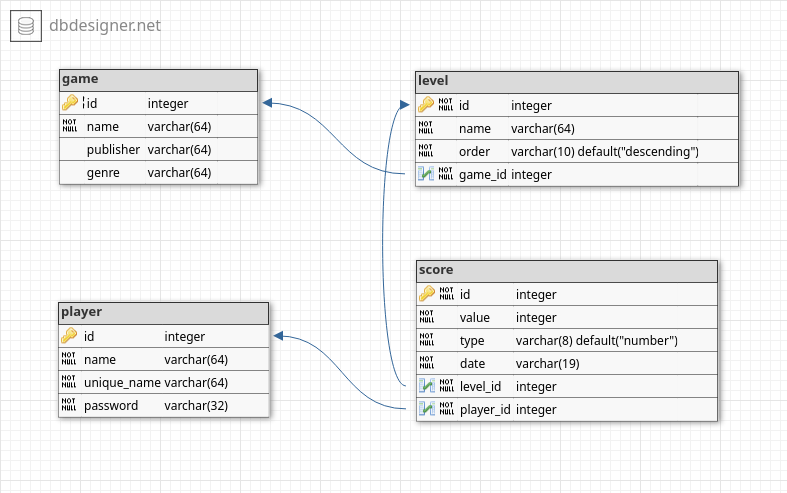
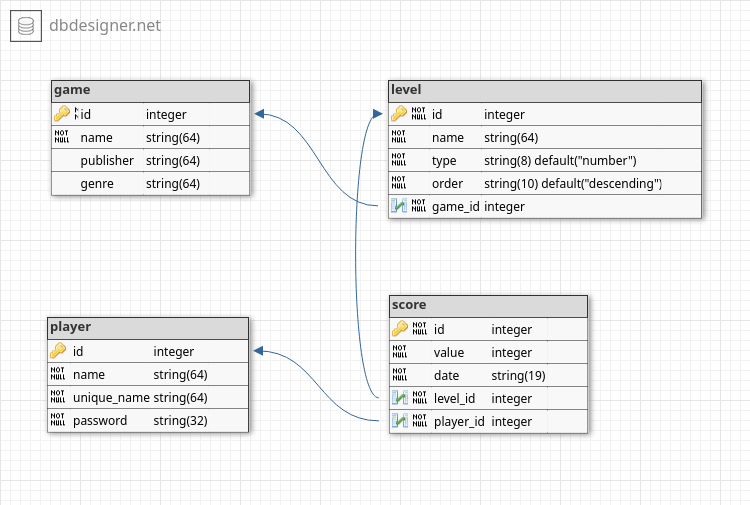
Small change in models

diff --git a/tests/db_test.py b/tests/db_test.py
@@ -1,5 +1,5 @@
 """
-Test structure based on an example and instructions in the Programmable Web Project course.
+Test structure is based on an example and instructions from the Programmable Web Project course.
 """
 
 import os
@@ -14,11 +14,13 @@ from sqlalchemy.exc import IntegrityError, StatementError
 from gamescoreservice import create_app, db
 from gamescoreservice.models import Game, Level, Score, Player
 
+
 @event.listens_for(Engine, "connect")
 def set_sqlite_pragma(dbapi_connection, connection_record):
     cursor = dbapi_connection.cursor()
     cursor.execute("PRAGMA foreign_keys=ON")
     cursor.close()
+
 
 @pytest.fixture
 def app():
@@ -39,6 +41,14 @@ def app():
     os.unlink(db_fname)
 
 
+def _get_player(n="Driver 1", u="driver_1", p="8e72e8b36289c5777861de5d869bf9aa"):
+    return Player(
+        name=n,
+        unique_name=u,
+        password=p
+    )
+
+
 def _get_game(n="Stunt Car Racer", p="MicroStyle", g="Racing"):
     return Game(
         name=n,
@@ -47,9 +57,63 @@ def _get_game(n="Stunt Car Racer", p="MicroStyle", g="Racing"):
     )
 
 
+def _get_level(n="Stepping Stones", t="time", o="ascending"):
+    return Level(
+        name=n,
+        type=t,
+        order=o
+    )
+
+
+def _get_score(v=53690, d="2021-08-05 19:55:08"):
+    return Score(
+        value=v,
+        date=d
+    )
+
+
 def test_create_instances(app):
+    """
+    Try to create one instance of each model with valid values and test that they were added to
+    the database correctly.
+    """
+
     with app.app_context():
+        # Get example values
+        player = _get_player()
         game = _get_game()
+        level = _get_level()
+        score = _get_score()
+
+        # Add relationships
+        level.game = game
+        score.level = level
+        score.player = player
+
+        # Add everything into the database
+        db.session.add(player)
         db.session.add(game)
+        db.session.add(level)
+        db.session.add(score)
+
         db.session.commit()
+
+        # Check for correct amount of created instances
+        assert Player.query.count() == 1
         assert Game.query.count() == 1
+        assert Level.query.count() == 1
+        assert Score.query.count() == 1
+
+        # Retrieve instances
+        db_player = Player.query.first()
+        db_game = Game.query.first()
+        db_level = Level.query.first()
+        db_score = Score.query.first()
+
+        # Check relationships
+        assert db_level.game == db_game
+        assert db_score.level == db_level
+        assert db_score.player == db_player
+        assert db_level in db_game.levels
+        assert db_score in db_level.scores
+        assert db_score in db_player.scores

diff --git a/gamescoreservice/models.py b/gamescoreservice/models.py
@@ -25,6 +25,8 @@ class Game(db.Model):
 class Level(db.Model):
     """
     Level "name" must be unique in relation to a game.
+    "type" defines if scores on the level are in "number" (points, for example) or "time"
+    (milliseconds) format.
     "scores" will be filled with all scores for the level and will be deleted if the level is
     deleted.
     "order" is either "descending" or "ascending" to indicate if lower or higher score is better.
@@ -35,6 +37,7 @@ class Level(db.Model):
 
     id = db.Column(db.Integer, primary_key=True)
     name = db.Column(db.String(64), nullable=False)
+    type = db.Column(db.String(8), nullable=False, default="number")
     order = db.Column(db.String(64), nullable=False, default="descending")
     game_id = db.Column(db.Integer, db.ForeignKey("game.id", ondelete="CASCADE"), nullable=False)
 
@@ -48,8 +51,7 @@ class Level(db.Model):
 class Score(db.Model):
     """
     Only one score per player (player_id) per level (level_id) is allowed.
-    "value" must be integer and "type" defines if it's a "number" (points, for example) or "time"
-    (milliseconds expected).
+    "value" must be integer.
     "date" is in yyyy-mm-dd hh:mm:ss format.
     Levels and Players are back-populated with scores.
     """
@@ -58,7 +60,6 @@ class Score(db.Model):
 
     id = db.Column(db.Integer, primary_key=True)
     value = db.Column(db.Integer, nullable=False)
-    type = db.Column(db.String(8), nullable=False, default="number")
     date = db.Column(db.String(19), nullable=False)
     level_id = db.Column(db.Integer, db.ForeignKey("level.id", ondelete="CASCADE"), nullable=False)
     player_id = db.Column(db.Integer, db.ForeignKey("player.id", ondelete="CASCADE"), nullable=False)

diff --git a/README.md b/README.md
@@ -17,10 +17,10 @@ The instructions shown in this file apply on Linux based environments.
 # Preparations
 
 You might want to run the API in a virtual environment and to create it, use the following command line:
-```python3 -m venv gamescoreservice```
+```python3 -m venv gamescoreservice-env```
 
 Then activate the newly created virtual environment:
-```source gamescoreservice/bin/activate```
+```source gamescoreservice-env/bin/activate```
 
 Change your current working directory into project's directory for the next steps.
 
@@ -38,6 +38,8 @@ The project can be installed with the following command:
 
 ## Preparations
 
+If you haven't activated the virtual Python environment (see the previous steps), do it now.
+
 Couple environment variables need to be set. It can be made with:
 ```source setup_flask_env```
 
@@ -45,7 +47,7 @@ Now you can initialize a new empty database if you haven't made it before:
 ```flask init-db```
 
 
-## Optional step for testing
+## Optional Step for Testing
 
 To populate a newly created database with some test data:
 ```flask populate-db```
